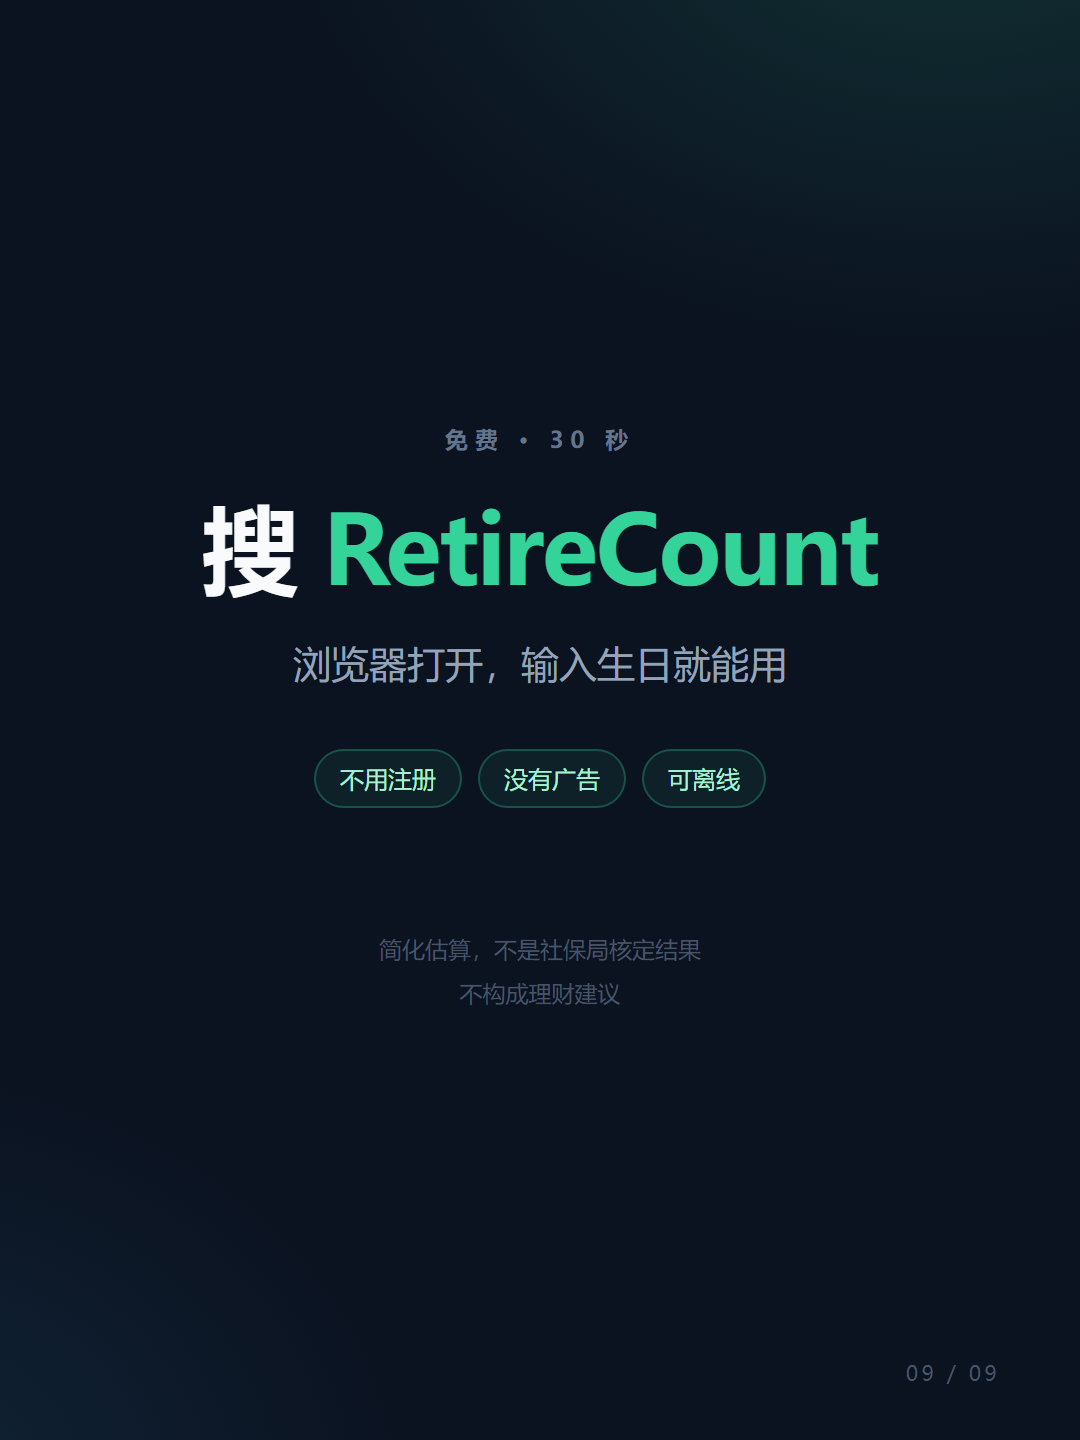
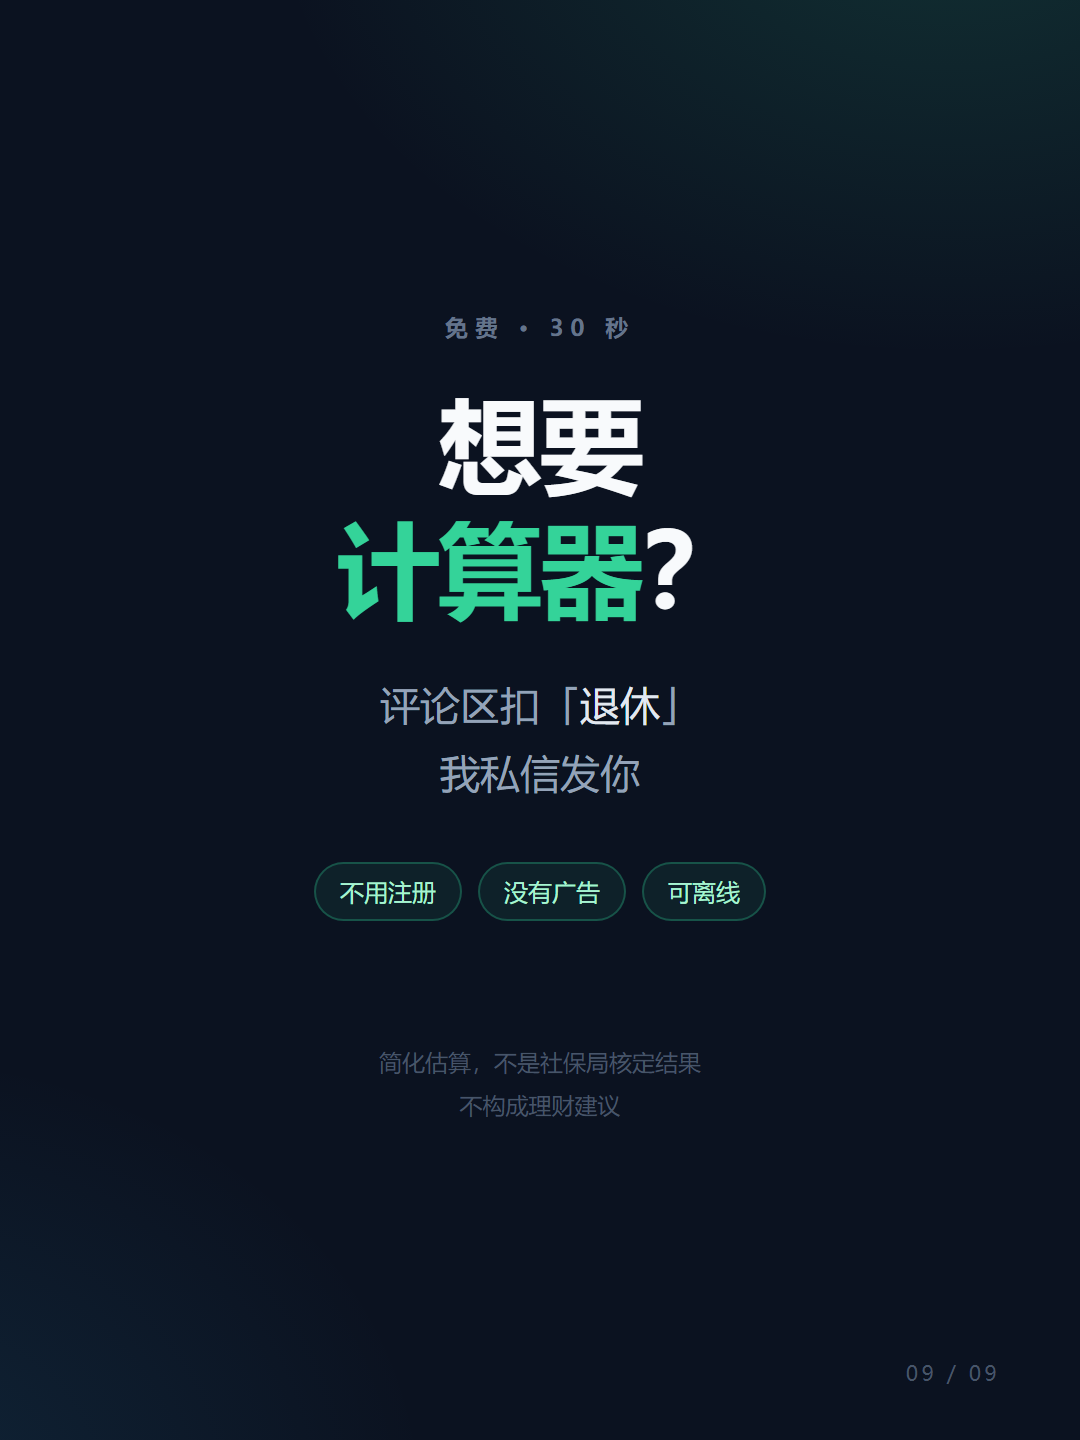
docs(marketing): 改为私信承接，结尾图与文案去掉站内搜索引导

diff --git a/marketing/xiaohongshu/README.md b/marketing/xiaohongshu/README.md
@@ -12,7 +12,7 @@
 | `06.png` | 赤字曲线：85 岁那年缺口 9.7 万 |
 | `07.png` | 退休生活蓝图：财务 / 健康 / 兴趣 / 关系 |
 | `08.png` | 隐私：不用登录，数据只存本机 |
-| `09.png` | 结尾：搜 RetireCount |
+| `09.png` | 结尾：想要计算器？评论区扣「退休」 |
 
 ## 发布文案
 
@@ -85,7 +85,8 @@
 
 - 时间：工作日 19:00–22:00 或周日晚。
 - 发布后 30 分钟回复每条评论，置顶一条：「算完的姐妹把天数打在评论区，我帮你看缺口大不大。」
-- 正文和图片都不要放网址 / 二维码，用「搜 RetireCount」承接。
+- 正文和图片都不要放网址 / 二维码，也不要写「搜 RetireCount」——小红书站内搜不到网页。
+  承接靠私信：评论区扣「退休」，再一条条私信发链接。
 - 连发 3 篇同系列（倒计时 / 缺口 / 蓝图），别只发一篇。
 
 ## 注意
@@ -174,7 +175,8 @@ node scripts/make-xhs-images.mjs
    「我算出来 8258 天，你们呢？」
 5. 30 分钟内回完所有评论，别只回「谢谢」。
 6. 连续 3 天发同系列（天数 / 缺口 / 工资对比），一天一篇，别一次发完。
-7. 正文和图片都不放网址、二维码，用「搜 RetireCount」承接。
+7. 正文和图片都不放网址、二维码，也不写「搜 RetireCount」（站内搜不到网页）。
+   结尾只写：评论区扣「退休」，我私信发你。
 
 ## 看哪个数判断成败
 
@@ -192,4 +194,68 @@ node scripts/make-xhs-covers-v2.mjs
 ```
 
 输出到 `marketing/xiaohongshu/v2/`，含 `feed-test.png` 缩略图模拟。
+
+---
+
+# 承接：不发链接，怎么让人用到
+
+先说结论：**小红书没有合规的外链入口**。
+
+- 正文、评论、图片里放网址或二维码 → 轻则限流，重则删笔记
+- 个人号开不了「蓝链」（需要企业资质和备案）
+- 在小红书站内搜「RetireCount」只能搜到你的笔记，**搜不到网页**
+
+所以别再写「搜 RetireCount 就能用」，用户会以为你在敷衍。
+
+## 三条路，按推荐顺序
+
+### 1. 私信承接（现在就能用）
+
+笔记结尾：`评论区扣「退休」，我私信发你。`
+置顶评论：`计算器是我自己做的，不用登录。想要的扣「退休」。`
+
+私信第一条（不要带 `https://`，避免被系统折叠）：
+
+```text
+链接在这，复制到浏览器打开就行：
+yang66666hhhhh.github.io/retire-count
+
+填生日、退休年龄、月薪，30 秒出结果。
+```
+
+注意：
+
+- 别群发同一句，一条条发，前面加一句对方评论里的内容
+- 新号一天别超过 20–30 条私信，容易被限制
+- 对方没回之前，小红书对陌生人私信有次数限制，先回评论再私信
+
+### 2. 主页简介（长期入口）
+
+```text
+退休倒计时｜想要计算器私信「退休」
+```
+
+简介里同样不要放网址。
+
+### 3. 公众号承接（中期，最稳）
+
+注册一个免费订阅号，发一篇《我还要上多少天班？》，
+文末「阅读原文」放网页链接——微信文章里可以放外链。
+
+小红书这边只做内容，不放任何链接。0 粉阶段先用私信，
+等有几百粉再考虑把「公众号」写进简介（这句话本身也有引流风险）。
+
+## 不要做
+
+- 图片里放二维码（会被识别，直接限流）
+- 正文 / 评论区放链接
+- 私信发可点击短链（比纯文本更容易被折叠）
+- 同一篇笔记反复改（每次改都重新审核）
+
+## 关于链接太长
+
+`yang66666hhhhh.github.io/retire-count` 确实不好打。
+以后可以迁到 Cloudflare Pages，地址会变成 `retire-count.pages.dev`，
+短一半，私信里更好发；也可以买个几十块一年的短域名，转化会明显好一些。
+
 
